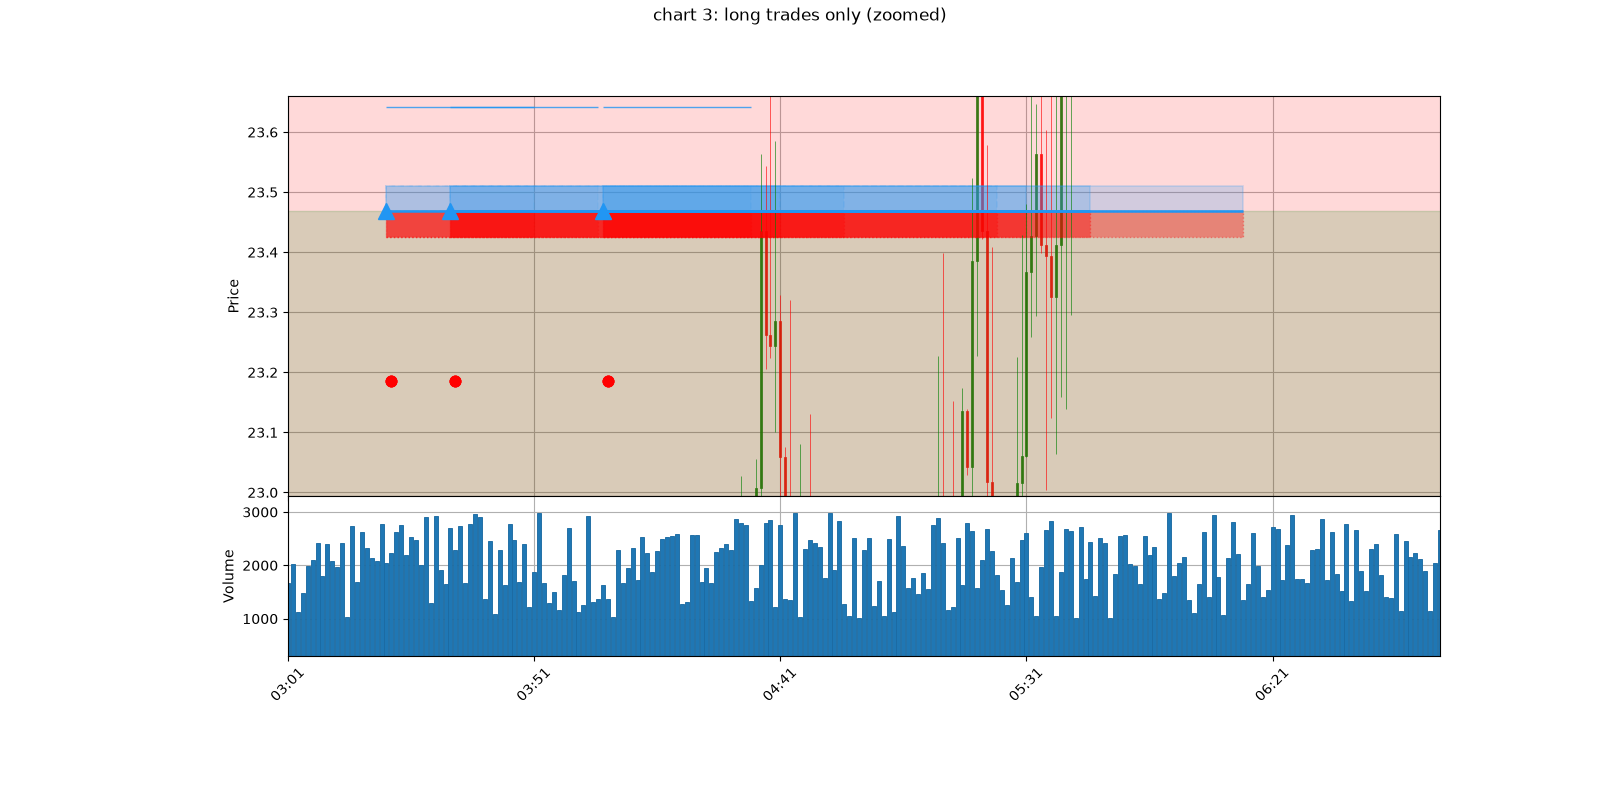
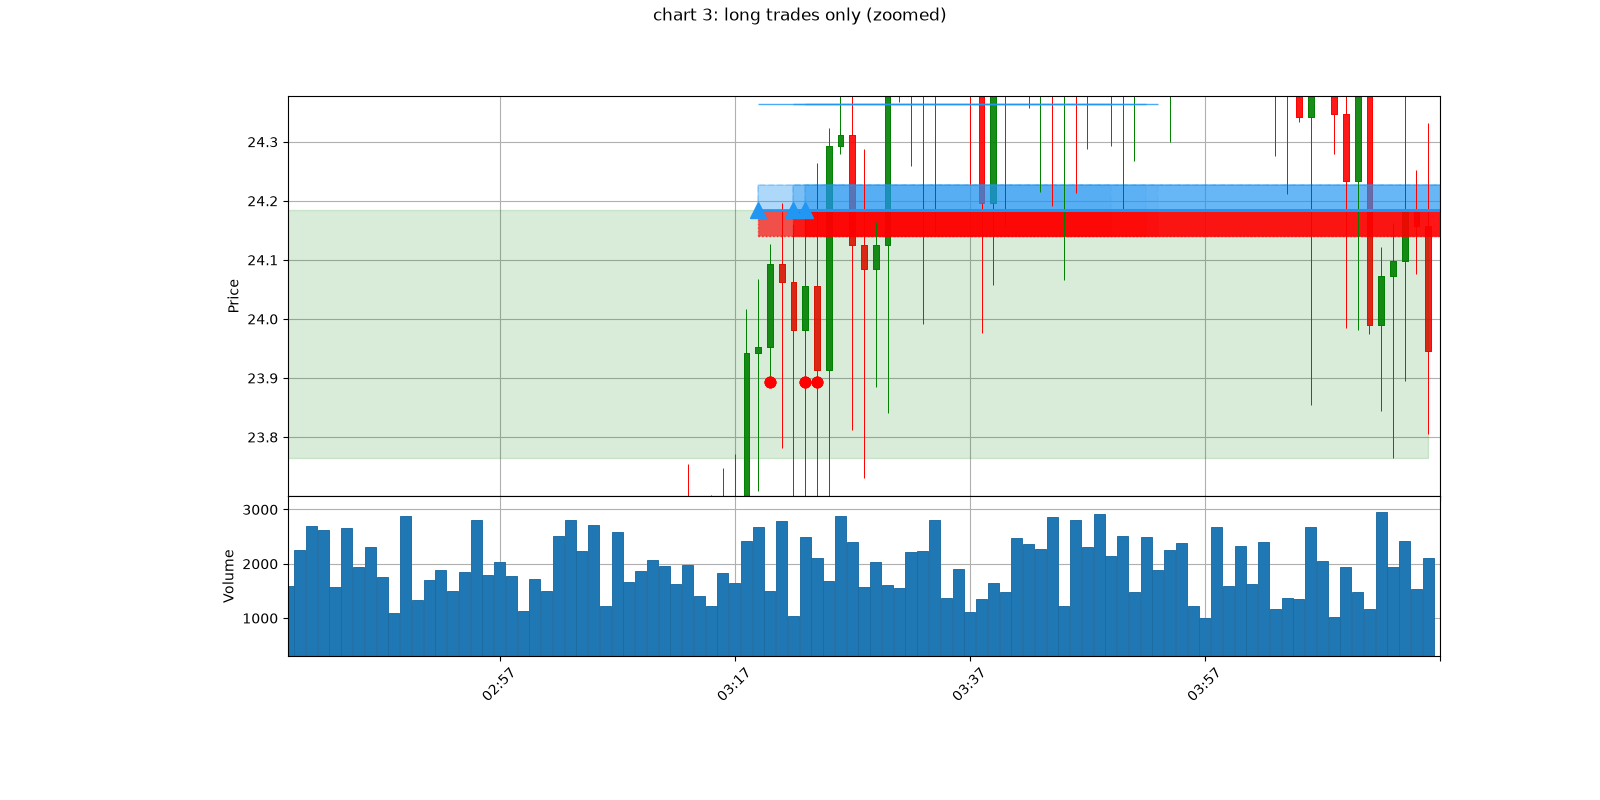
viewer.py: clamp x-axis to candle range so boxes don't stretch charts

diff --git a/viewer.py b/viewer.py
@@ -117,6 +117,7 @@ fig1, axes1 = mpf.plot(df1, type='candle', volume=True, style=style,
 n1 = len(df1); x1 = range(n1)
 for hi, lo, cnt in resChannels: axes1[0].fill_between(x1, hi, lo, color='red', alpha=0.15)
 for hi, lo, cnt in supChannels: axes1[0].fill_between(x1, hi, lo, color='green', alpha=0.15)
+axes1[0].set_xlim(-1, n1)
 fig1.savefig('chart.png', dpi=100, pad_inches=0.4); plt.close(fig1)
 
 df2 = to_df(randomCandles)
@@ -127,6 +128,7 @@ n2 = len(df2); x2 = range(n2)
 for hi, lo, cnt in resChannels: axes2[0].fill_between(x2, hi, lo, color='red', alpha=0.15)
 for hi, lo, cnt in supChannels: axes2[0].fill_between(x2, hi, lo, color='green', alpha=0.15)
 plot_trades(axes2[0], buy_trades + sell_trades)
+axes2[0].set_xlim(-1, n2)
 fig2.savefig('chart_2.png', dpi=100, pad_inches=0.4); plt.close(fig2)
 
 if buy_trades:

diff --git a/main.py b/main.py
@@ -96,7 +96,7 @@ def generateCandles(count, timeframe, startPrice=20, endPrice=25, offsetRange=0.
         currentPrice = closePrice
     return candles
 
-randomCandles = generateCandles(1000, 60) # 1m candles > 5m candles = 5000 candles
+randomCandles = generateCandles(100, 60) # 1m candles > 5m candles = 5000 candles
 
 def analyzeSR(candles, k=3, widthPercent=0.05):
     resistancePoints, supportPoints = candleSupportResistance(candles, k)
